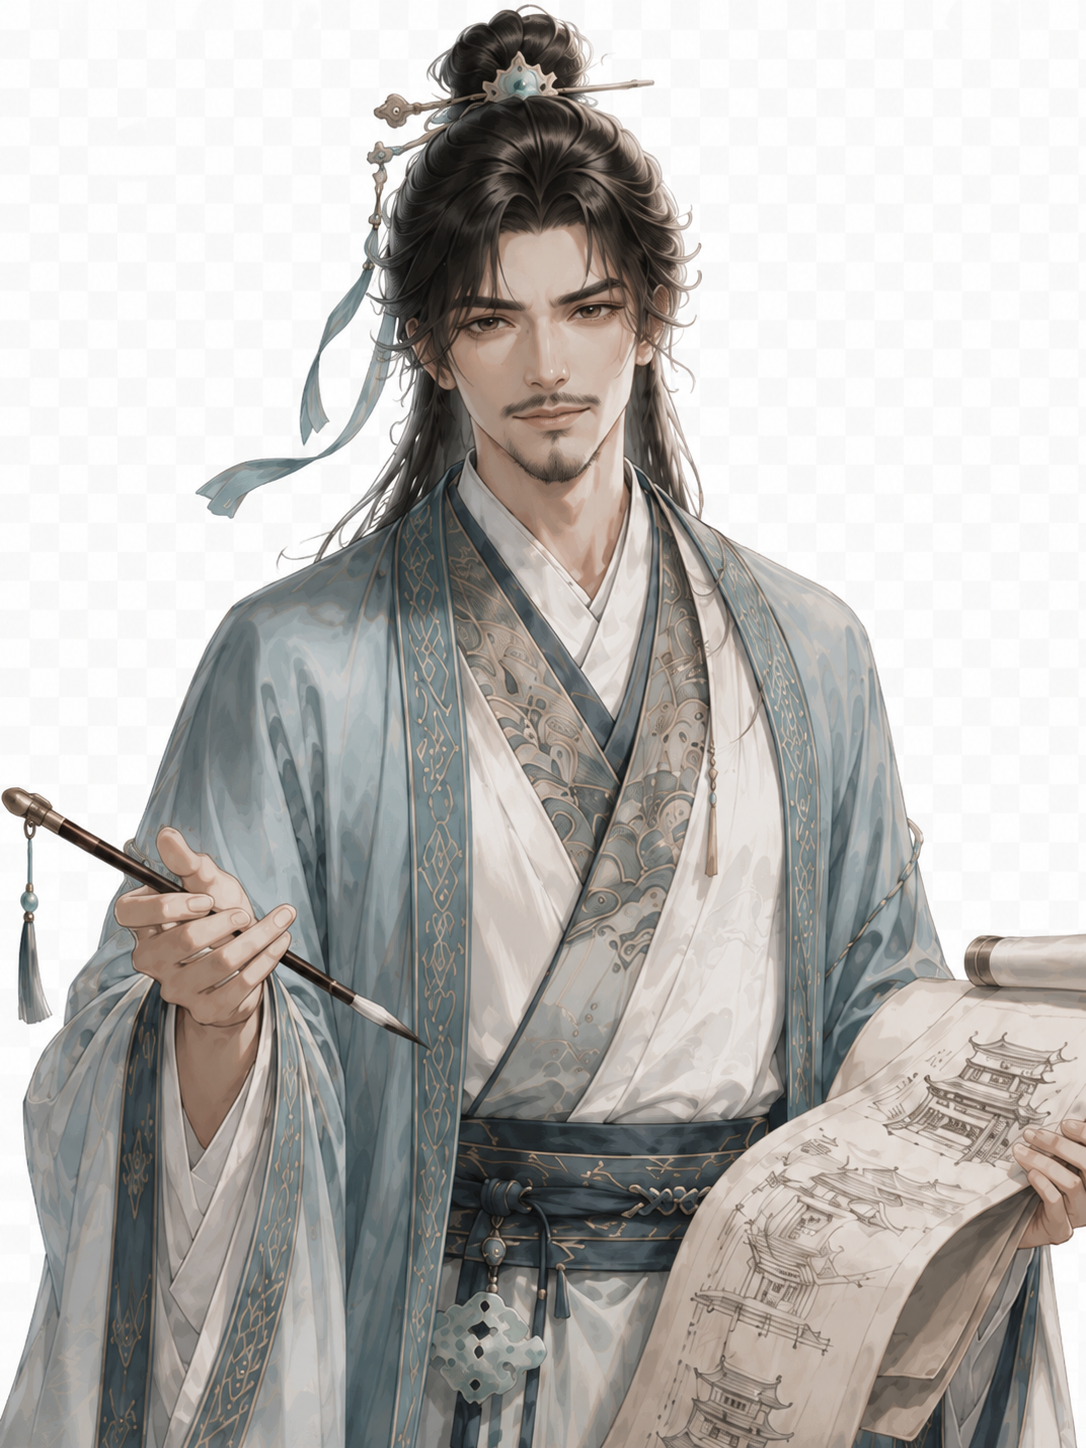
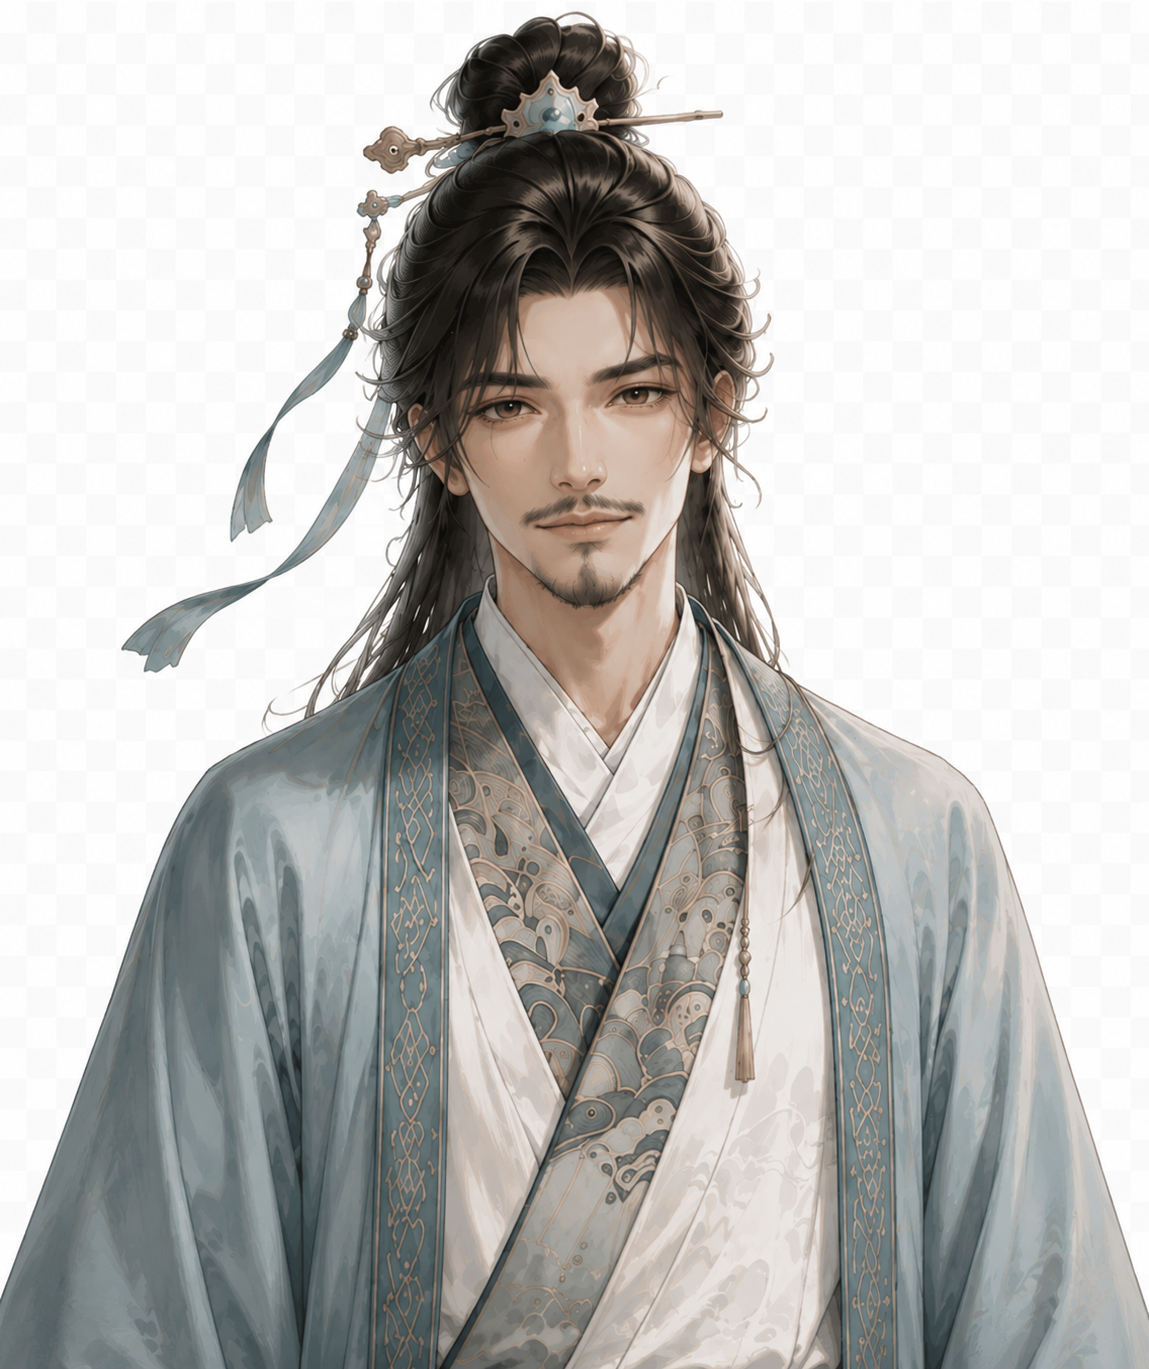
接入角色半身立绘新集 + 书房初遇场景图
Part1 半身立绘：
- himeng→ximeng 重命名拷入 public/char，新表情集 calm/sad/smile/stern/surprise/trust(嵩/择端无trust)、书童仅smile
- calm 作通用兜底：npcSprites 重写 NPC_EXPRESSIONS/EMOTION_TO_EXPR，回退 normal→calm
- 修散落旧引用：MainGameScreen名牌默认图/EndingDialogue导师图/tutorialScripts书童希孟/AdmissionTransition书童 → 新表情名
- 清 public/char 旧集(normal/serious/painting/special/thinking)；全身图暂不接

Part2 书房初遇场景图：
- GuideScript 加可选 sceneImage；GuideDialogue 有 sceneImage 时铺满作背景、不渲半身(图里已有希孟)
- XIMENG_FIRST_MEET 设 scene-himeng-first-meet.png；.gd-overlay--scene CSS(cover+multiply暗罩)

diff --git a/workspaces/danqingyuan-mvp/src/content/npcSprites.ts b/workspaces/danqingyuan-mvp/src/content/npcSprites.ts
@@ -1,24 +1,26 @@
 import type { NpcId, NpcEmotionState } from '../types';
 
 /**
- * NPC 立绘按情绪/好感选图（2026-07-06 接入已产表情差分）。
+ * NPC 立绘按情绪/好感选图（2026-07-06 接入新表情半身集，calm 为通用兜底）。
  *
- * 现有各 NPC 表情文件（public/char/char-{npc}-{expr}.png）——嵩/书童尚缺部分表情，用 normal 兜底：
- * - 希孟：normal/calm/smile/sad/stern/surprise/trust/painting/special
- * - 李唐：normal/serious/smile/sad/stern/surprise/trust
- * - 择端：normal/calm/smile/sad/stern/surprise
- * - 嵩：normal/smile/thinking（缺 calm/stern/sad/surprise → 待明明补图）
- * - 书童：normal（缺 smile/surprise → 待补）
+ * 现有各 NPC 表情半身（public/char/char-{npc}-{expr}.png）：
+ * - 希孟 ximeng：calm/sad/smile/stern/surprise/trust
+ * - 李唐 litang：calm/sad/smile/stern/surprise/trust
+ * - 嵩 song：calm/sad/smile/stern/surprise（无 trust）
+ * - 择端 zeduan：calm/sad/smile/stern/surprise（无 trust）
+ * - 书童 shutong：仅 smile（引导脚本固定图，非 NpcId、不走此表）
+ *
+ * 兜底：选不到目标表情一律回退 calm（全员必有）。
  */
 const NPC_EXPRESSIONS: Record<string, ReadonlySet<string>> = {
-  ximeng: new Set(['normal', 'calm', 'smile', 'sad', 'stern', 'surprise', 'trust', 'painting', 'special']),
-  litang: new Set(['normal', 'serious', 'smile', 'sad', 'stern', 'surprise', 'trust']),
-  zeduan: new Set(['normal', 'calm', 'smile', 'sad', 'stern', 'surprise']),
-  song: new Set(['normal', 'smile', 'thinking']),
-  shutong: new Set(['normal']),
+  ximeng: new Set(['calm', 'sad', 'smile', 'stern', 'surprise', 'trust']),
+  litang: new Set(['calm', 'sad', 'smile', 'stern', 'surprise', 'trust']),
+  song: new Set(['calm', 'sad', 'smile', 'stern', 'surprise']),
+  zeduan: new Set(['calm', 'sad', 'smile', 'stern', 'surprise']),
+  shutong: new Set(['smile']),
 };
 
-/** 情绪 → 目标表情（Bible C.3）。目标表情该 NPC 没有时回退（calm→normal）。 */
+/** 情绪 → 目标表情（Bible C.3）。目标该 NPC 没有时回退 calm。sad 暂无情绪入口，留作备用。 */
 const EMOTION_TO_EXPR: Record<NpcEmotionState, string> = {
   distant: 'calm',
   silent: 'calm',
@@ -30,15 +32,15 @@ const EMOTION_TO_EXPR: Record<NpcEmotionState, string> = {
 };
 
 /**
- * 取 NPC 立绘路径：按 emotionState 选表情，选不到则回退。
+ * 取 NPC 立绘路径：按 emotionState 选表情，选不到则回退 calm。
  * 希孟 + trusting + 好感≥知己(60) → 专属 trust 表情。
  */
 export function npcSpriteFor(npcId: NpcId, emotionState?: NpcEmotionState, affinity?: number): string {
-  const avail = NPC_EXPRESSIONS[npcId] ?? new Set(['normal']);
-  let expr = emotionState ? (EMOTION_TO_EXPR[emotionState] ?? 'normal') : 'normal';
+  const avail = NPC_EXPRESSIONS[npcId] ?? new Set(['calm']);
+  let expr = emotionState ? (EMOTION_TO_EXPR[emotionState] ?? 'calm') : 'calm';
   if (npcId === 'ximeng' && emotionState === 'trusting' && (affinity ?? 0) >= 60 && avail.has('trust')) {
     expr = 'trust';
   }
-  if (!avail.has(expr)) expr = avail.has('calm') ? 'calm' : 'normal';
+  if (!avail.has(expr)) expr = avail.has('calm') ? 'calm' : [...avail][0];
   return `/char/char-${npcId}-${expr}.png`;
 }

diff --git a/workspaces/danqingyuan-mvp/src/content/tutorialScripts.ts b/workspaces/danqingyuan-mvp/src/content/tutorialScripts.ts
@@ -10,6 +10,8 @@ export interface GuideScript {
   speakerName: string;
   /** 立绘路径（public/char/） */
   portrait: string;
+  /** 可选场景背景图（public/）：设了则铺满作背景、不再单独渲染半身立绘（如希孟书房初遇，图里已有希孟） */
+  sceneImage?: string;
   /** 逐句点击推进 */
   lines: string[];
   /** 末句按钮文案 */
@@ -36,7 +38,7 @@ export const TUTORIAL_SLOT_FLAGS: Record<string, string> = {
   evening: 'tutorial_evening_done',
 };
 
-const SHUTONG_PORTRAIT = '/char/char-shutong-normal.png';
+const SHUTONG_PORTRAIT = '/char/char-shutong-smile.png';
 
 /** 本科导师介绍差分句（2026-06-11 拍板：山水/画理=李唐，人物=嵩，界画=择端） */
 const MAJOR_LINE_BY_STYLE: Record<SkillId, string> = {
@@ -113,7 +115,8 @@ export function getSilentSlotUnlock(state: GameState): { flagsSet: Record<string
 const XIMENG_FIRST_MEET: GuideScript = {
   id: 'ximeng_first_meet',
   speakerName: '希孟',
-  portrait: '/char/char-ximeng-normal.png',
+  portrait: '/char/char-ximeng-calm.png',
+  sceneImage: '/scene-himeng-first-meet.png',
   lines: [
     '书房尽头的窗下，立着一个青衣的背影。少年身量不高，肩背却挺得笔直，正低头对着案上一卷长长的青绿设色出神，连你进门也没察觉。',
     '日光从糊窗的纸上漏下来，照得那卷山水里的石青石绿微微发亮。他执笔的手悬在半空，许久没有落下——仿佛整座书房的安静，都是为了护住他笔尖那一点将落未落的念头。',

diff --git a/workspaces/danqingyuan-mvp/src/components/MainGameScreen.tsx b/workspaces/danqingyuan-mvp/src/components/MainGameScreen.tsx
@@ -95,10 +95,10 @@ const TIME_SLOTS: GameState['time']['timeSlot'][] = ['morning_class', 'forenoon'
  * 现用 4 位 NPC 现成立绘；后续美术补通用图（青年男/女/老年男/儿童等）按需扩。
  */
 const sceneNpcSprite: Record<NpcId, string> = {
-  ximeng: '/char/char-ximeng-normal.png',
-  zeduan: '/char/char-zeduan-normal.png',
-  litang: '/char/char-litang-serious.png',
-  song: '/char/char-song-normal.png',
+  ximeng: '/char/char-ximeng-calm.png',
+  zeduan: '/char/char-zeduan-calm.png',
+  litang: '/char/char-litang-calm.png',
+  song: '/char/char-song-calm.png',
 };
 
 /** 档案实体类别中文（2026-07-01，档案库+新增飘条共用）；含 clueGraph 全 6 类 */

diff --git a/workspaces/danqingyuan-mvp/src/components/GuideDialogue.tsx b/workspaces/danqingyuan-mvp/src/components/GuideDialogue.tsx
@@ -25,8 +25,13 @@ export function GuideDialogue({ script, onDone }: GuideDialogueProps) {
   }
 
   return (
-    <div className="gd-overlay">
-      <img alt={script.speakerName} className="gd-portrait" src={script.portrait} />
+    <div
+      className={script.sceneImage ? 'gd-overlay gd-overlay--scene' : 'gd-overlay'}
+      style={script.sceneImage ? { backgroundImage: `url(${script.sceneImage})` } : undefined}
+    >
+      {!script.sceneImage && (
+        <img alt={script.speakerName} className="gd-portrait" src={script.portrait} />
+      )}
       <div
         className="gd-box"
         onClick={advance}

diff --git a/workspaces/danqingyuan-mvp/src/components/AdmissionTransition.tsx b/workspaces/danqingyuan-mvp/src/components/AdmissionTransition.tsx
@@ -10,7 +10,7 @@ export function AdmissionTransition({ text, onEnter }: AdmissionTransitionProps)
     <main className="adm-transition">
       <div className="adm-transition-bg" />
       <div className="adm-transition-card">
-        <img alt="小书童" className="adm-transition-portrait" src="/char/char-shutong-normal.png" />
+        <img alt="小书童" className="adm-transition-portrait" src="/char/char-shutong-smile.png" />
         <div className="adm-transition-body">
           <h2 className="adm-transition-title">入院 · 小书童来迎</h2>
           {text ? (

diff --git a/workspaces/danqingyuan-mvp/src/components/EndingDialogue.tsx b/workspaces/danqingyuan-mvp/src/components/EndingDialogue.tsx
@@ -3,9 +3,9 @@ import type { NpcId } from '../types';
 
 /** 结局导师点评立绘（2026-06-30）：李唐严肃、嵩/择端常态。批二见希孟复用本组件传 ximeng */
 const mentorPortrait: Record<NpcId, string> = {
-  litang: '/char/char-litang-serious.png',
-  song: '/char/char-song-normal.png',
-  zeduan: '/char/char-zeduan-normal.png',
+  litang: '/char/char-litang-stern.png',
+  song: '/char/char-song-calm.png',
+  zeduan: '/char/char-zeduan-calm.png',
   ximeng: '/char/char-ximeng-smile.png',
 };
 

diff --git a/workspaces/danqingyuan-mvp/src/styles/app.css b/workspaces/danqingyuan-mvp/src/styles/app.css
@@ -4036,6 +4036,15 @@ dd {
   animation: fadeIn 280ms ease both;
 }
 
+/* 场景背景变体（如希孟书房初遇）：铺满场景图、不渲半身立绘，压一层暗罩保证文字可读 */
+.gd-overlay--scene {
+  background-color: rgba(14, 10, 6, 0.35);
+  background-size: cover;
+  background-position: center;
+  background-repeat: no-repeat;
+  background-blend-mode: multiply;
+}
+
 .gd-portrait {
   position: absolute;
   bottom: 0;
